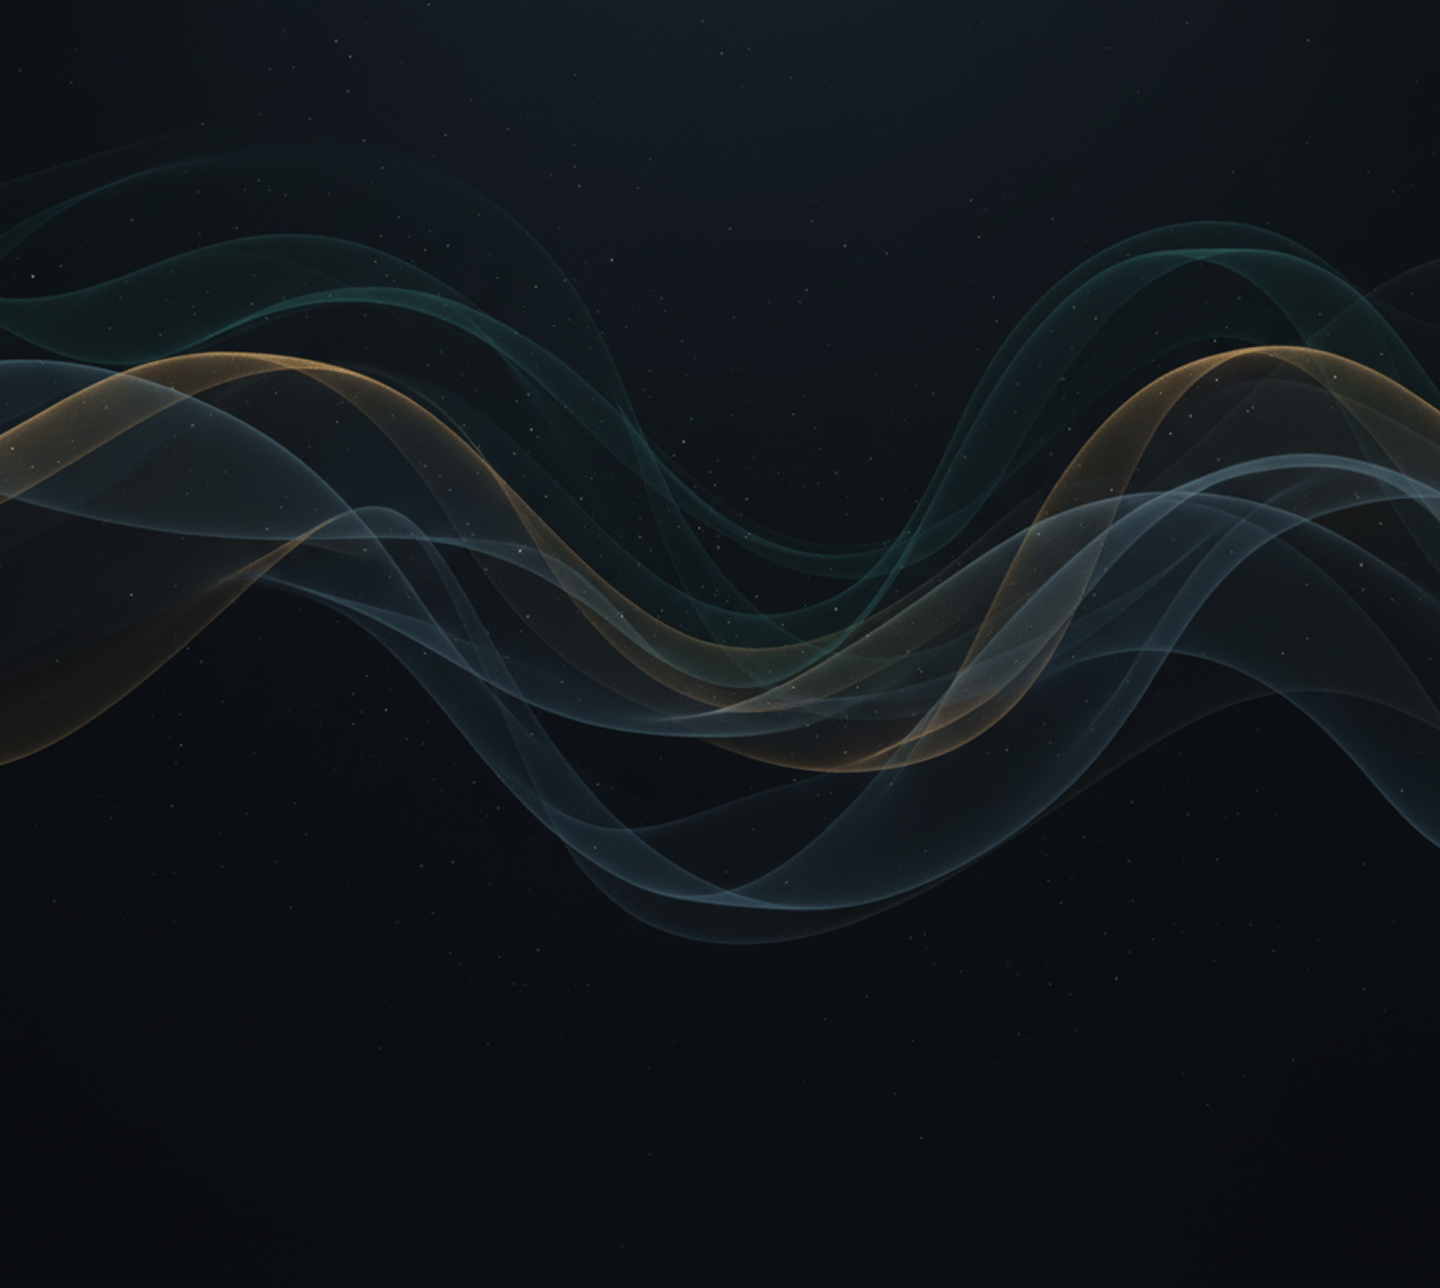
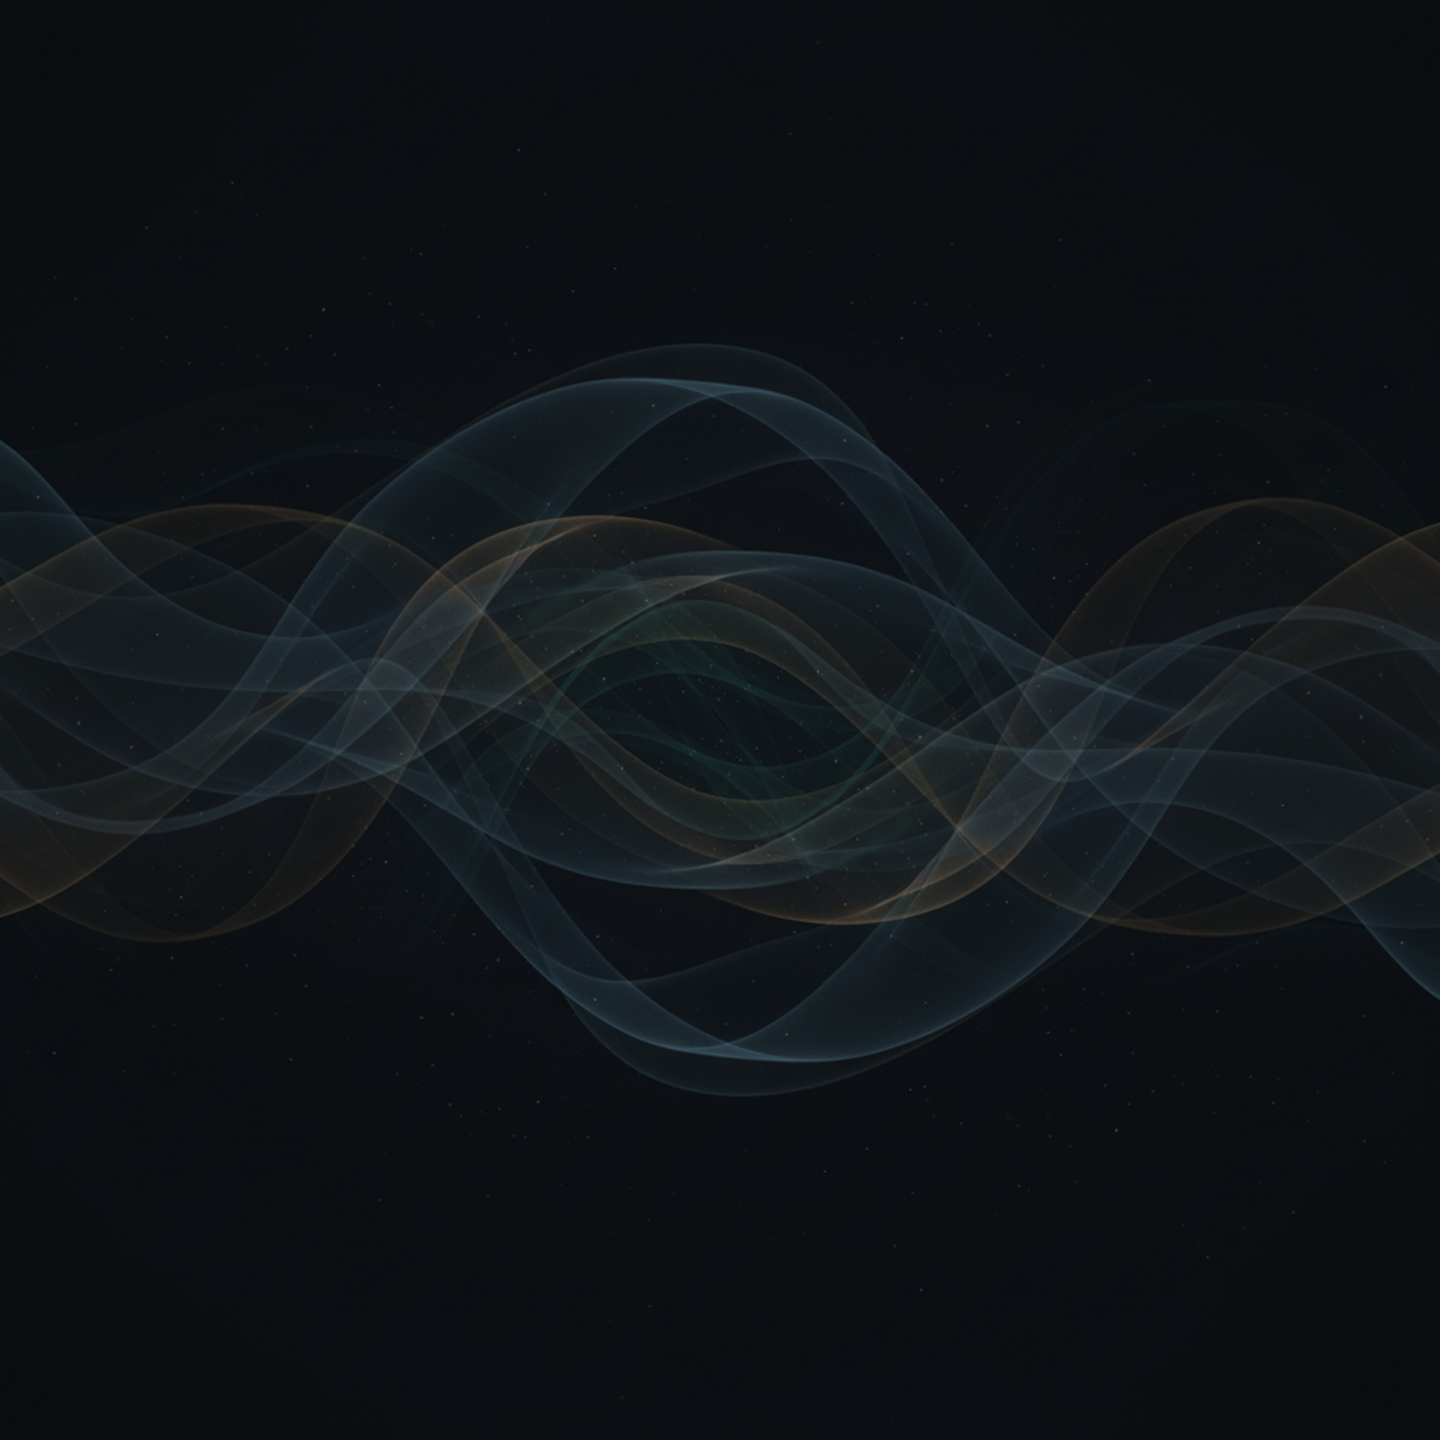
fix image background, finish blog, read more and structure

diff --git a/src/components/BlogList/index.tsx b/src/components/BlogList/index.tsx
@@ -1,28 +1,54 @@
+"use client";
+
 import { client } from "@/sanity/client";
 import Container from "../Container";
 import CardPost from "../CardPost";
 import { CardPostProps } from "../CardPost";
+import { useEffect, useState } from "react";
 
-// Busca os dados no servidor (Server Component)
-async function getPosts() {
-  return client.fetch(
-    `*[_type == "post"]{_id, title, slug, _createdAt, image}`,
-  );
-}
+export default function BlogList({
+  initialPostsCount = 1,
+}: {
+  initialPostsCount?: number;
+}) {
+  const [posts, setPosts] = useState<CardPostProps[]>([]);
+  const [visibleCount, setVisibleCount] = useState(initialPostsCount);
 
-export default async function BlogList() {
-  const posts = await getPosts();
+  useEffect(() => {
+    client
+      .fetch(
+        `*[_type == "post"]{_id, title, slug, _createdAt, image {
+        asset,
+        hotspot,
+        alt
+      }}`,
+      )
+      .then(setPosts);
+  }, []);
 
-  console.log(posts);
+  const handleLoadMore = () => {
+    setVisibleCount((prev) => prev + 6);
+  };
 
   return (
     <section className="bloglist">
       <Container>
         <div className="grid grid-cols-3 gap-6">
-          {posts.map((post: CardPostProps) => (
+          {posts.slice(0, visibleCount).map((post: CardPostProps) => (
             <CardPost key={post._id} {...post} />
           ))}
         </div>
+
+        {visibleCount < posts.length && (
+          <div className="flex justify-center mt-8">
+            <button
+              onClick={handleLoadMore}
+              className="px-6 py-3 bg-green text-white cursor-pointer rounded-lg hover:bg-green transition-colors"
+            >
+              Carregar mais posts
+            </button>
+          </div>
+        )}
       </Container>
     </section>
   );

diff --git a/src/components/CardPost/index.tsx b/src/components/CardPost/index.tsx
@@ -1,6 +1,6 @@
 import Link from "next/link";
 import Image from "next/image";
-import { urlFor } from "@/sanity/imageUrl";
+import { urlFor } from "@/src/lib/sanity.image";
 
 export type CardPostProps = {
   _id: string;
@@ -12,6 +12,7 @@ export type CardPostProps = {
       _ref: string;
       _type: string;
     };
+    alt?: string;
   };
   content: string;
 };
@@ -21,7 +22,7 @@ type SlugProps = {
   _type: string;
 };
 
-export default async function CardPost({
+export default function CardPost({
   _id,
   slug,
   title,
@@ -32,21 +33,25 @@ export default async function CardPost({
   return (
     <article
       key={_id}
-      className="bg-black rounded flex flex-col md:flex-row gap-8 p-4 hover:scale-105"
+      className="bg-black rounded flex flex-col md:flex-row gap-8 p-5 hover:scale-105 hover:transition-all"
     >
       <Link
-        href={`/entendendo-do-assunto/${slug.current}`}
+        href={`/blog/${slug.current}`}
         className="block hover:opacity-80 transition-opacity"
       >
-        <Image
-          src={urlFor(image).width(400).height(200).url()}
-          alt=""
-          width={400}
-          height={200}
-          className="mb-10"
-        />
+        {image ? (
+          <Image
+            src={urlFor(image).width(400).height(300).url()}
+            alt={image?.alt || ""}
+            height={300}
+            width={400}
+            className="mb-5"
+          />
+        ) : (
+          <div className="bg-gray-800 aspect-4/3 mb-5"></div>
+        )}
 
-        <h2 className="text-2xl font-semibold mb-2 text-white hover:text-blue-600">
+        <h2 className="text-xl font-semibold mb-2 text-white leading-6 hover:text-green">
           {title}
         </h2>
 

diff --git a/src/app/(internas)/blog/[slug]/page.tsx b/src/app/(internas)/blog/[slug]/page.tsx
@@ -1,0 +1,69 @@
+import { client } from "@/sanity/client";
+import { PortableText } from "@portabletext/react";
+import { notFound } from "next/navigation";
+import Image from "next/image";
+import { urlFor } from "@/src/lib/sanity.image";
+
+interface Post {
+  _id: string;
+  title: string;
+  _createdAt: string;
+  content: any;
+  image?: any;
+}
+
+export const revalidate = 60;
+
+async function getPost(slug: string) {
+  const query = `
+    *[_type == "post" && slug.current == $slug][0] {
+      _id,
+      title,
+      _createdAt,
+      content,
+      image {
+        asset,
+        hotspot,
+        alt
+      }}`;
+  const post = await client.fetch(query, { slug });
+
+  return post;
+}
+
+export default async function PostPage({
+  params,
+}: {
+  params: { slug: string };
+}) {
+  const resolvedParams = await params;
+  const post: Post = await getPost(resolvedParams.slug);
+
+  if (!post) {
+    notFound();
+  }
+
+  return (
+    <article className="max-w-3xl mx-auto px-4 py-12">
+      <header className="mb-8 pb-8">
+        {post?.image ? (
+          <Image
+            src={urlFor(post.image).width(1200).height(600).url()}
+            alt=""
+            width={1200}
+            height={600}
+            className="mb-12"
+          />
+        ) : (
+          <div className="bg-gray-700 mb-12 aspect-video rounded"></div>
+        )}
+
+        <h1 className="text-5xl font-bold mb-2 text-green">{post.title}</h1>
+      </header>
+
+      <div className="post-content text-2xl font-light leading-9">
+        <PortableText value={post.content} />
+      </div>
+    </article>
+  );
+}

diff --git a/src/app/(home)/layout.tsx b/src/app/(home)/layout.tsx
@@ -1,0 +1,43 @@
+import type { Metadata } from "next";
+import Header from "@/src/components/Header";
+import Footer from "@/src/components/Footer";
+import { Poppins } from "next/font/google";
+import { headers } from "next/headers";
+
+import "../globals.css";
+
+const poppins = Poppins({
+  variable: "--font-poppins",
+  subsets: ["latin"],
+  weight: ["200", "400", "700"],
+});
+
+export const metadata: Metadata = {
+  title: "Tokeen",
+  description: "",
+  icons: {
+    icon: "/favicon.svg",
+  },
+};
+
+export default async function RootLayout({
+  children,
+}: Readonly<{
+  children: React.ReactNode;
+}>) {
+  const headersList = await headers();
+  const pathname = headersList.get("x-pathname") || "";
+  const isAdmin = pathname.startsWith("/admin");
+
+  return (
+    <html lang="pt-br">
+      <body className={`${poppins.variable} antialiased font-poppins background`}>
+        <main>
+          {!isAdmin && <Header />}
+          {children}
+          {!isAdmin && <Footer />}
+        </main>
+      </body>
+    </html>
+  );
+}

diff --git a/src/app/admin/layout.tsx b/src/app/admin/layout.tsx
@@ -1,0 +1,43 @@
+import type { Metadata } from "next";
+import Header from "@/src/components/Header";
+import Footer from "@/src/components/Footer";
+import { Poppins } from "next/font/google";
+import { headers } from "next/headers";
+
+import "../globals.css";
+
+const poppins = Poppins({
+  variable: "--font-poppins",
+  subsets: ["latin"],
+  weight: ["200", "400", "700"],
+});
+
+export const metadata: Metadata = {
+  title: "Tokeen",
+  description: "",
+  icons: {
+    icon: "/favicon.svg",
+  },
+};
+
+export default async function RootLayout({
+  children,
+}: Readonly<{
+  children: React.ReactNode;
+}>) {
+  const headersList = await headers();
+  const pathname = headersList.get("x-pathname") || "";
+  const isAdmin = pathname.startsWith("/admin");
+
+  return (
+    <html lang="pt-br">
+      <body className={`${poppins.variable} antialiased font-poppins`}>
+        <main>
+          {!isAdmin && <Header />}
+          {children}
+          {!isAdmin && <Footer />}
+        </main>
+      </body>
+    </html>
+  );
+}

diff --git a/src/components/Header/index.tsx b/src/components/Header/index.tsx
@@ -43,7 +43,7 @@ export default function Header() {
             {menu.map((item, index) => (
               <li
                 key={index}
-                className="flex items-center text-center px-2 leading-4 text-balance max-w-[120]"
+                className="flex items-center text-center px-2 leading-4 text-balance w-[120]"
               >
                 <Link
                   href={item.href}
@@ -56,7 +56,7 @@ export default function Header() {
             ))}
 
             {cta && (
-              <li className="flex items-center text-center px-2 leading-4 text-balance max-w-[120]">
+              <li className="flex items-center text-center px-2 leading-4 text-balance w-full">
                 <Link
                   href={cta.href}
                   target={cta.target || ""}

diff --git a/src/app/globals.css b/src/app/globals.css
@@ -23,7 +23,7 @@
 
 @media (prefers-color-scheme: dark) {
   :root {
-    --background: #171717;
+    --background: #0F1218;
     --foreground: #ffffff;
     --dark-green: #0B8B63;
     --soft-green: #4CAB8E;
@@ -33,9 +33,6 @@
 }
 
 body {
-  background-image: url("/bg-hero.png");
-  background-repeat: repeat-y;
-  background-size: contain;
   background-color: var(--background);
   color: var(--foreground);
   font-family: var(--font-poppins), Arial, Helvetica, sans-serif;
@@ -49,7 +46,14 @@ a {
   transition: all ease-in-out .3s;
 }
 
-.quem-somos {
+.background {
+  background-image: url("/bg-hero.png");
+  background-repeat: repeat-y;
+  background-size: contain;
+}
+
+.quem-somos,
+.post-content {
   p {
     padding-bottom: 1rem;
   }

diff --git a/src/app/(home)/page.tsx b/src/app/(home)/page.tsx
@@ -24,7 +24,13 @@ export default async function Home() {
 
       <section>
         <Container className="flex justify-center">
-          <Image src={flow.src} alt={flow.alt} width={800} height={600} className="text-center" />
+          <Image
+            src={flow.src}
+            alt={flow.alt}
+            width={800}
+            height={600}
+            className="text-center"
+          />
         </Container>
       </section>
 

diff --git a/sanity/schemaTypes/post.ts b/sanity/schemaTypes/post.ts
@@ -21,11 +21,7 @@ export const postType = defineType({
       type: "image",
       fields: [
         defineField({
-          name: "caption",
-          type: "string",
-        }),
-        defineField({
-          name: "attribution",
+          name: "alt",
           type: "string",
         }),
       ],

diff --git a/src/lib/sanity.image.ts b/src/lib/sanity.image.ts
@@ -1,5 +1,5 @@
-import createImageUrlBuilder from "@sanity/image-url";
-import { client } from "./client";
+import { client } from "@/sanity/client";
+import { createImageUrlBuilder } from "@sanity/image-url";
 
 const builder = createImageUrlBuilder(client);
 

diff --git a/src/app/(internas)/layout.tsx b/src/app/(internas)/layout.tsx
@@ -4,7 +4,7 @@ import Footer from "@/src/components/Footer";
 import { Poppins } from "next/font/google";
 import { headers } from "next/headers";
 
-import "./globals.css";
+import "../globals.css";
 
 const poppins = Poppins({
   variable: "--font-poppins",

diff --git a/src/app/admin/page.tsx b/src/app/admin/page.tsx
@@ -1,7 +1,7 @@
 "use client";
 
 import { NextStudio } from "next-sanity/studio";
-import config from "../../../../sanity.config";
+import config from "@/sanity.config";
 
 export default function AdminPage() {
   return <NextStudio config={config} />;
